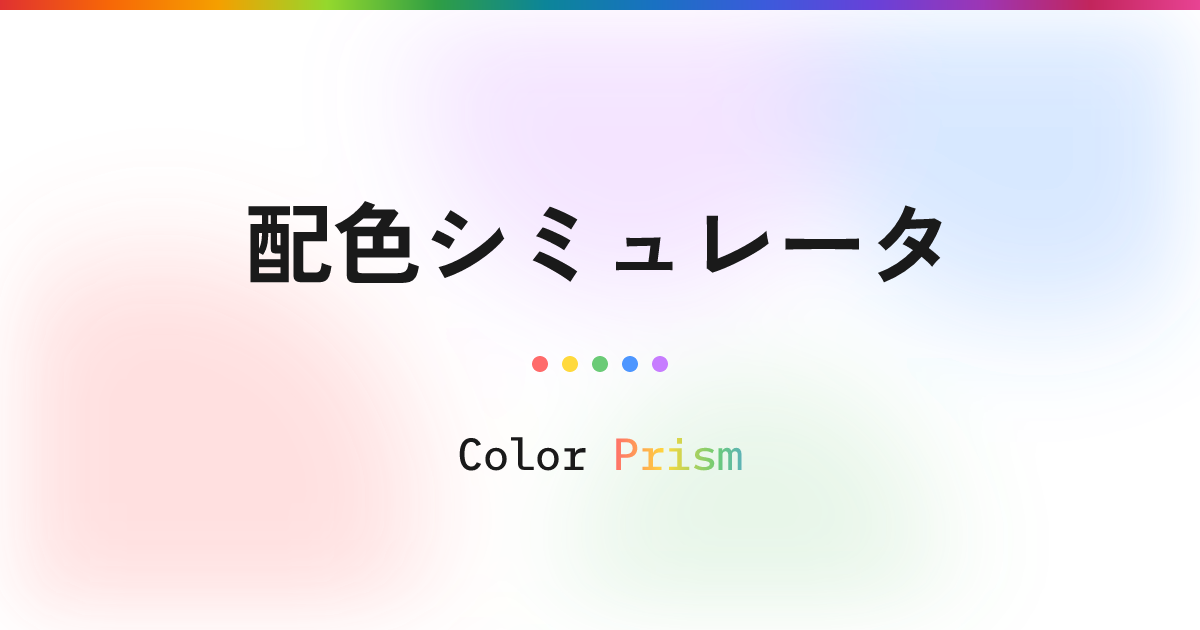
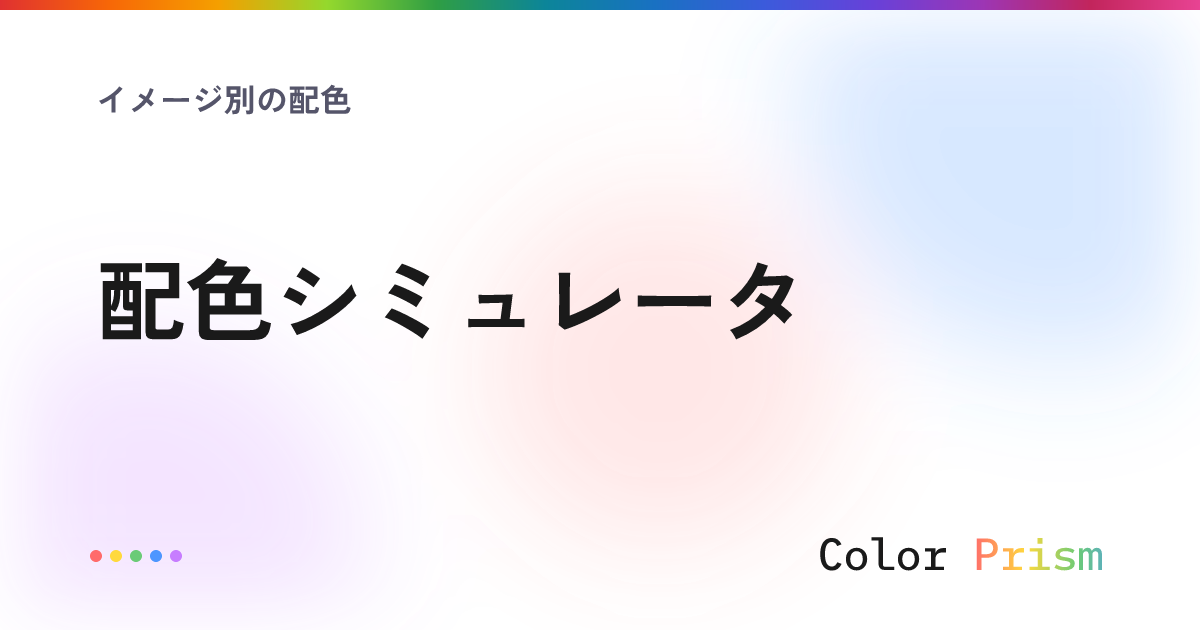
patternsのOGP画像をnestedにしてパンくず「イメージ別の配色」を付ける
配色シミュレータの一覧ページ /patterns を nested にしてパンくず
「イメージ別の配色」を出したい、という依頼を受けての変更。title-only だと
タイトルとサイト名が並ぶだけで、何を題材にしたシミュレータなのかが
サムネイルから伝わらなかった。

対象は一覧ページの /patterns 単体。配下の /patterns/<theme> は既に
nested-fig（バウハウス風プレビューつき・パンくず「配色シミュレータ」）で、
そちらを nested にすると図版が10枚落ちてしまうため触っていない。前回の
依頼が「games配下の」と書き分けられていたのに対し今回は /patterns だった
ことも、一覧ページ単体という解釈の根拠。

config.mjs では title-only の節から外し、「配色シミュレータ」の節を新設
した。/patterns の glob は1セグメントなので子にはマッチせず、nested-fig
の節との順序にも影響しない（10枚を再生成して md5 が変わらないことを確認）。

タイトル「配色シミュレータ」は 8em で、nested の maxWidth 1008 に対して
余裕があり 90px のまま1行に収まる。

未 push コミットに app 配下の変更が含まれるため、規約に従い CI スキップ
指示は付けない。

diff --git a/.claude/skills/generate-ogp-image/SKILL.md b/.claude/skills/generate-ogp-image/SKILL.md
@@ -268,9 +268,9 @@ render.mjs は nested-fig の図版を `ogimage/data/assets/<route>/figure.<ext>
 | `/` | default | （不要。メイン=サイト名） | — |
 | `/concept` | title-only | 「このサイトの歩き方」（`app/src/lib/layouts/concept.svelte`） | —（`config.mjs` の `tagline: true` でタイトル下にタグラインが入る） |
 | `/color-theory`, `/color-fields`, `/jis-color-map`, `/cg` | title-only | `app/src/lib/meta/site-nav.ts` の該当 NAV アイテム label（色の理論 / 色の活用分野 / 慣用色名マップ / CGと画像処理） | — |
-| `/patterns` | title-only | 「配色シミュレータ」（`app/src/routes/patterns/+page.svelte` の `<title>`） | — |
 | `/jis-color-map/all` | title-only | 「すべての慣用色名一覧」（`+page.svelte` の `<title>`） | — |
 | `/approximate`, `/analyze` | nested | 各 `+page.svelte` の `<title>` からサフィックス除去 | `["色分析ツール"]`（一覧ページを持たない単体ツールなので総称を充てる） |
+| `/patterns` | nested | 「配色シミュレータ」（`app/src/routes/patterns/+page.svelte` の `<title>`） | `["イメージ別の配色"]`（一覧ページだが、扱っている題材をパンくずに出す） |
 | `/color-theory/<slug>` | nested / nested-fig | `+page.svx` フロントマターの `title` | `["色の理論", <category>]`。category は `app/src/lib/content-pages/color-theory.yaml` の該当カテゴリ `title`（`colorTheoryCategoryBySlug` と同じ対応）。該当なしなら `["色の理論"]` |
 | `/color-fields/<slug>` | nested / nested-fig | `+page.svx` フロントマターの `title` | `["色の活用分野", <category>]`（`color-fields.yaml` / `colorFieldsCategoryBySlug`）。該当なしなら `["色の活用分野"]` |
 | `/cg/<unit>` | nested | `app/src/lib/content-pages/cg/<unit>.yaml` の先頭 `title` | `["CGと画像処理"]` |
